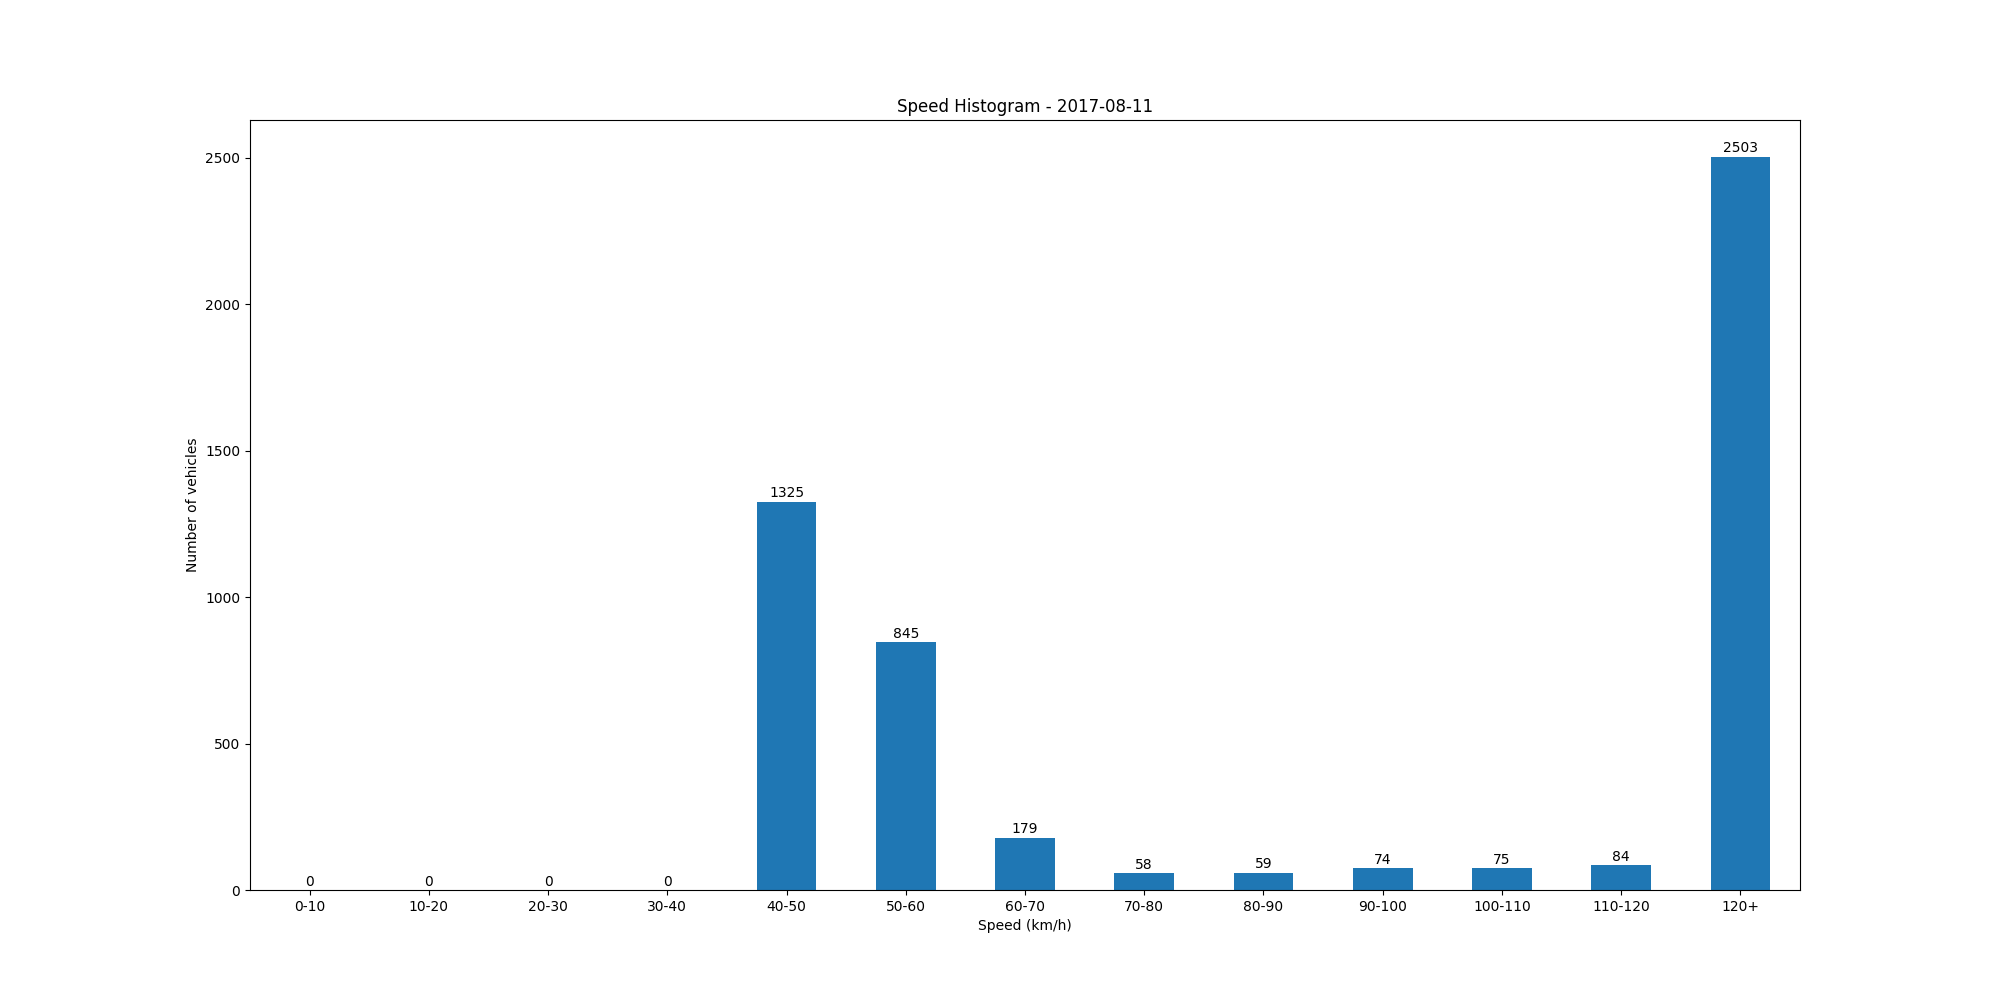
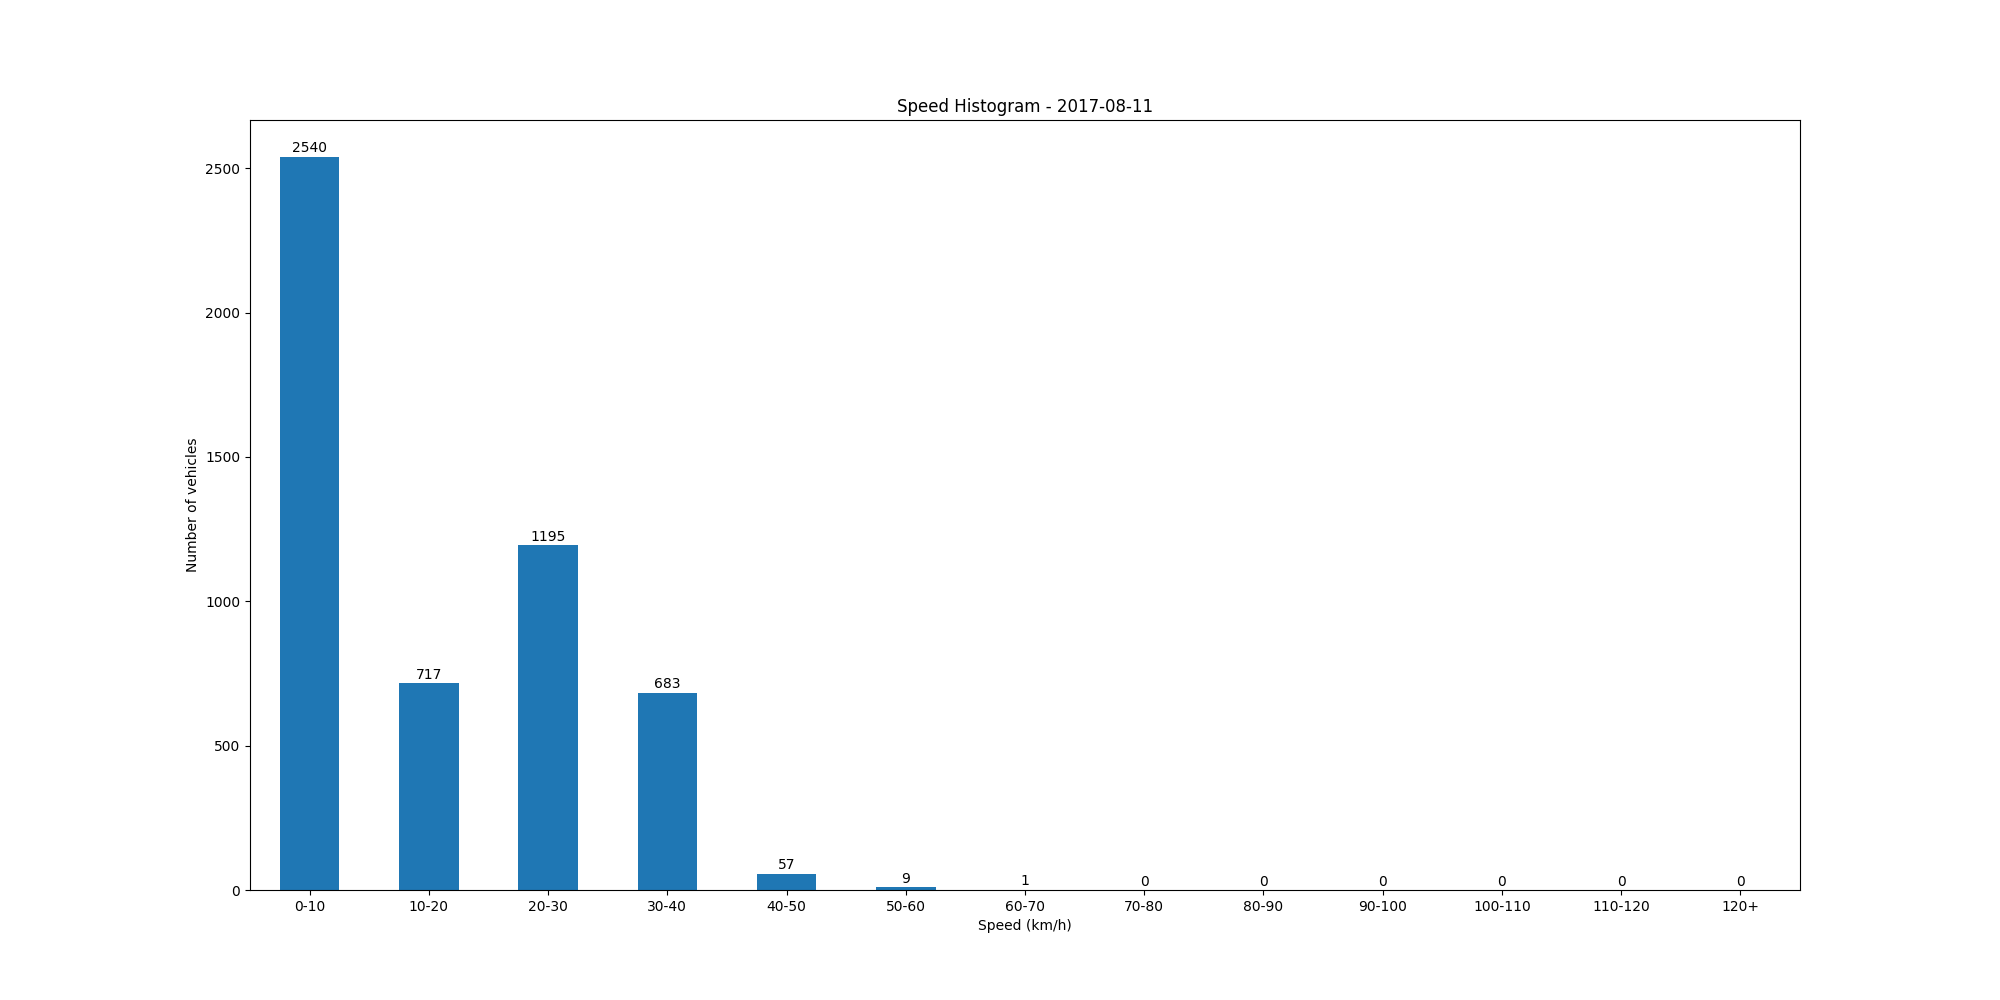
Added speed/10 in visualizer.

diff --git a/GraphTools.py b/GraphTools.py
@@ -11,7 +11,7 @@ def speedHistogram(dict, date, deviceID):
     for block in dict:
         if block["Counting"]:
             for vehicle in block["Counting"]:
-                speed = float(vehicle["RDCNT"]["S"])
+                speed = float(vehicle["RDCNT"]["S"])/10
                 if speed < 10:
                     speeds[0]+=1
                 elif speed < 20:

diff --git a/Constants.py b/Constants.py
@@ -9,7 +9,7 @@ class Constants:
     ## All final constant values
     FILE_SIZE_LIMIT = 25000
     URL = ''
-    KEY = '' # primary key
+    KEY = ''  # primary key
     DATABASE_NAME = 'BCRL-TLN-database'
     COLL_NAME = 'BCRL-TLN-collection'
     ADDRESSES = ['192.168.10.50', '192.168.10.51', '192.168.10.52', '192.168.10.53']
